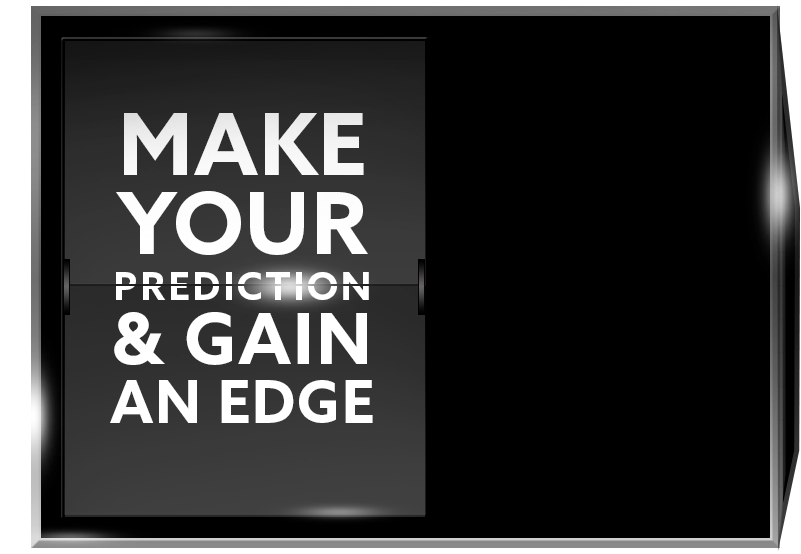
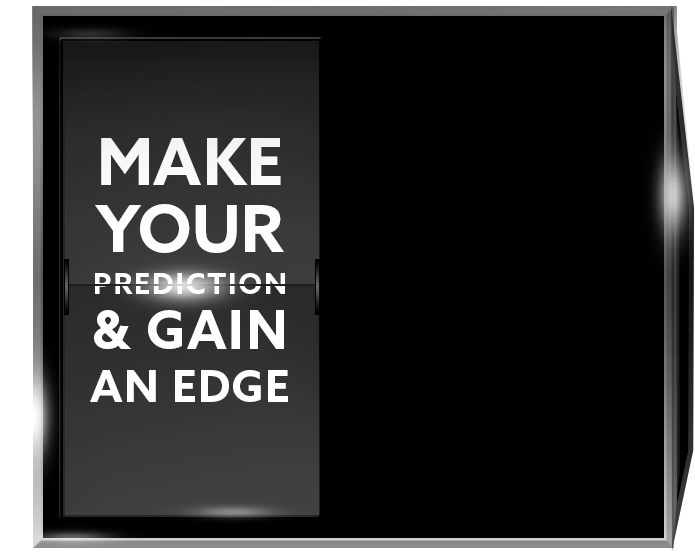
minor styling tweaks

diff --git a/themes/TCL2016/style.css b/themes/TCL2016/style.css
@@ -114,9 +114,11 @@ Header
     transition: color 250ms ease-out .1s;
     line-height: 0;
     padding-left: 0;
+    font-family: "azo-sans-bold","Montserrat","Helvetica Neue",Helvetica,sans-serif; 
   }
 
-  .nav a:hover, .header-shrink #nav a.selected, .header-shrink #nav a:hover{
+
+  .nav a:hover, .header-shrink #nav a.selected, .header-shrink #nav a:hover, #footer .nav a:hover{
     color:#818181;
     -webkit-transition: color 250ms ease-out .1s;
     -moz-transition: color 250ms ease-out .1s;
@@ -181,6 +183,8 @@ Header
   -moz-transition: background-color 250ms ease-out .1s;
   -o-transition: background-color 250ms ease-out .1s;
   transition: background-color 250ms ease-out .1s;
+  padding: 0px 10px 2px 10px;
+  margin-left: 8px;
 }
 .nav li.login-btn:hover{
   color: white;
@@ -295,7 +299,7 @@ video {
   overflow: hidden;
 }
 .top-panel .scoreboard-container {
-  max-width: 801px;
+  width: 695px;
   height: 554px;
   background: url("img/score-board-with-text.png") no-repeat center center;
   background-size: contain;
@@ -1115,10 +1119,10 @@ a.signup-button{
 #main.single .whatsayyou strong{ 
   font-size: 30px;
   display: block;
-    font-family: "azo-sans-bold","Montserrat","Helvetica Neue",Helvetica,sans-serif; 
-    font-weight: normal; 
-      line-height: 30px;
-    margin: 30px 20px 6px;
+  font-family: "azo-sans-bold","Montserrat","Helvetica Neue",Helvetica,sans-serif; 
+  font-weight: normal; 
+  line-height: 30px;
+  margin: 30px 20px 6px;
 }
 #main.single .whatsayyou span{
     font-family: "azo-sans-web","Montserrat","Helvetica Neue",Helvetica,sans-serif; 
